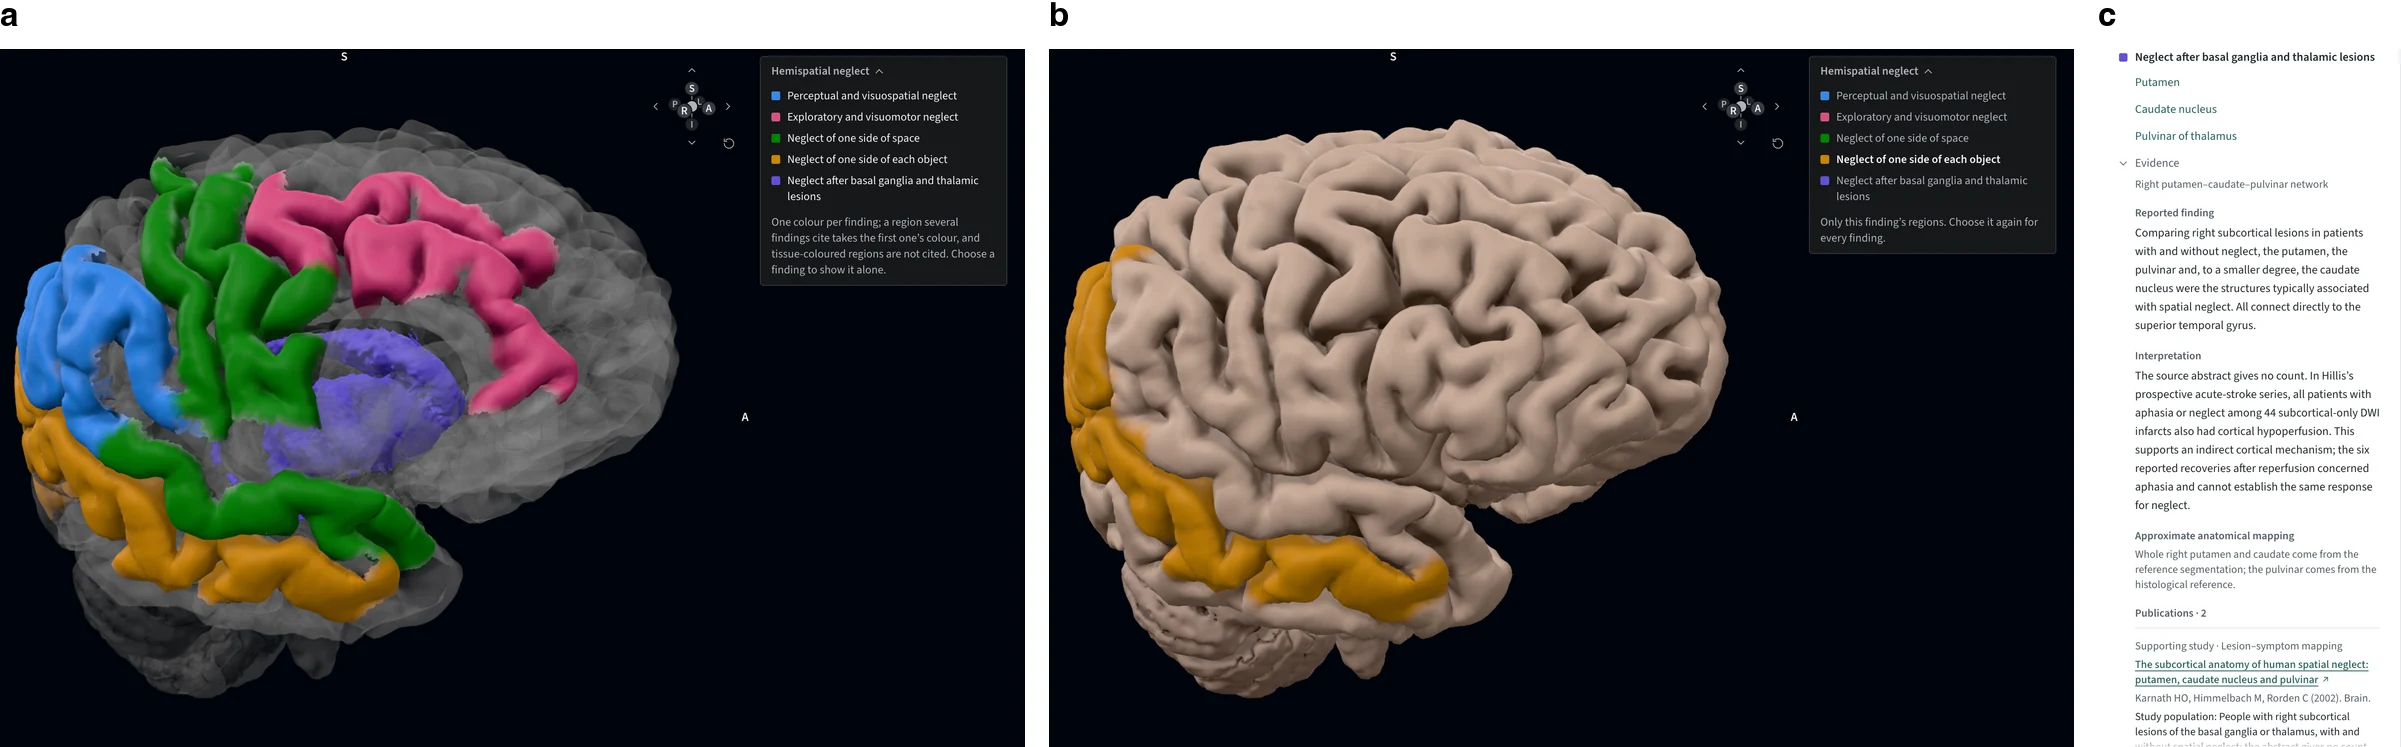
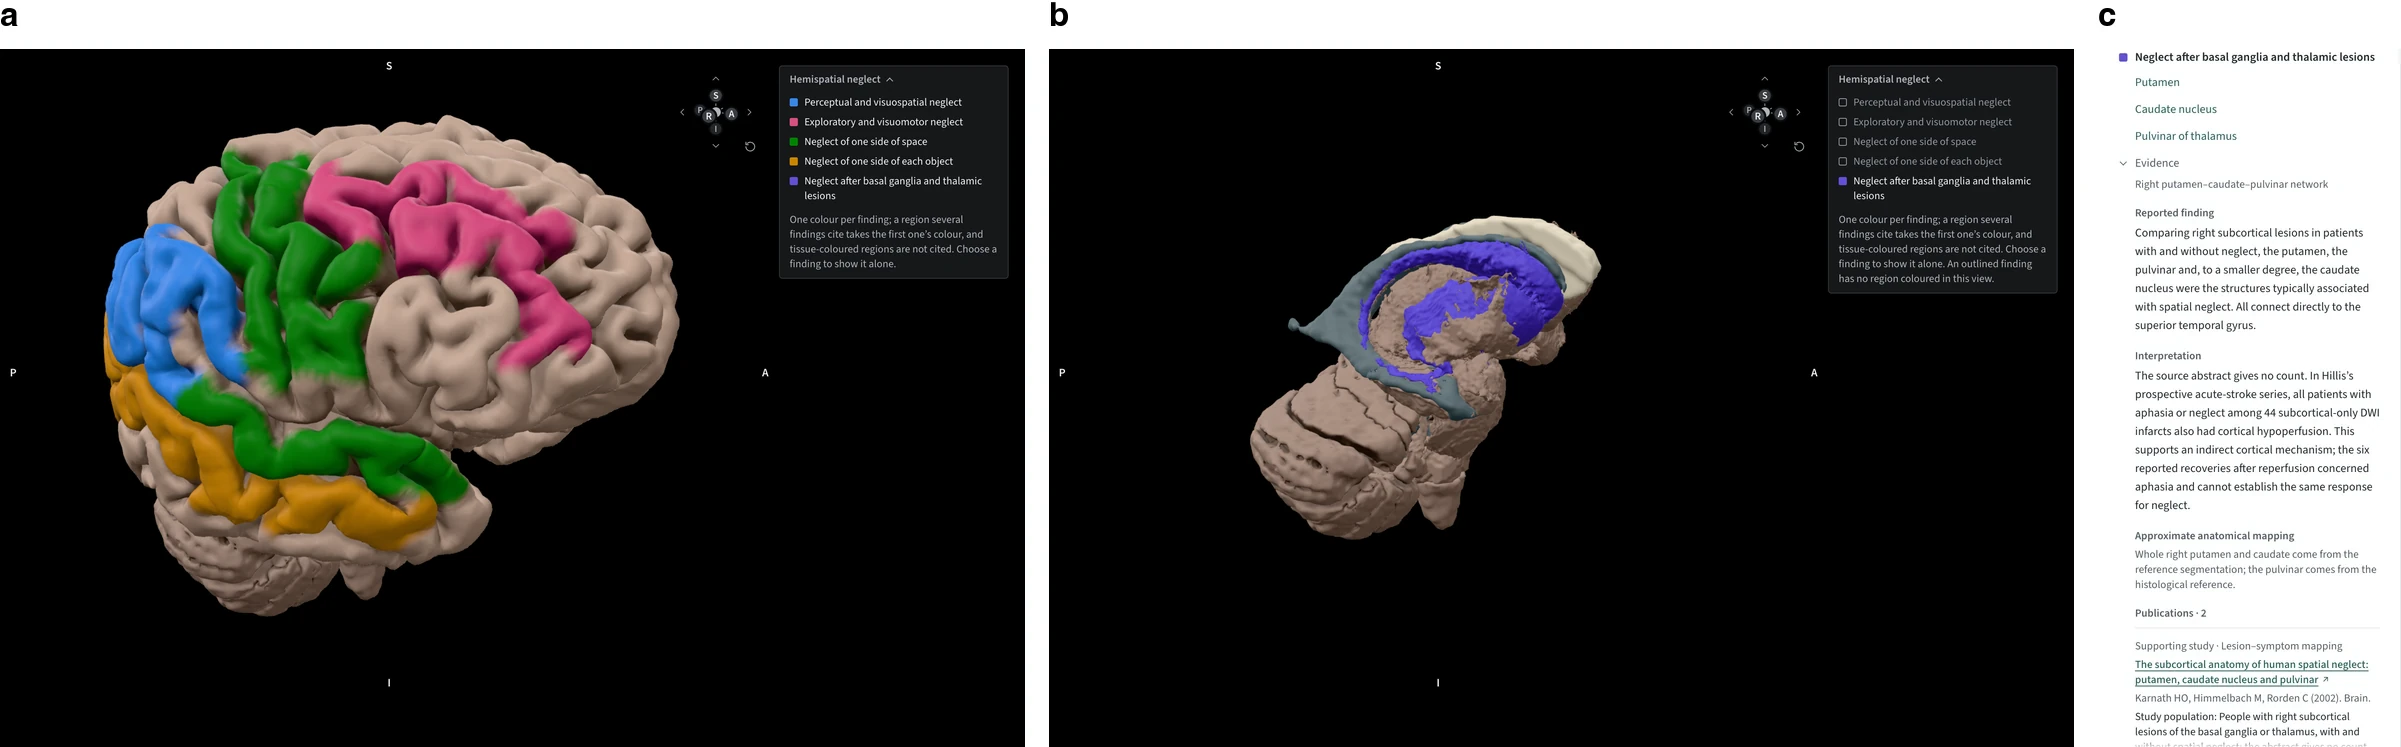
Recapture the docs figures that showed the see-through cortex
Deficits Fig. 1: panel a is hemispatial neglect's five findings on the
opaque cortex as it now opens; panel b, which showed one finding chosen,
now shows the view after "Show 2 deep structures": the cortex hidden, the
putamen and caudate violet, the cortical findings outlined in the key.
Panel c is unchanged.

Functions Fig. 1: panel c (All functions) is recaptured with the cortex
opaque. Panels a and b are unchanged.

Captured from the local viewer at the old panel scale (stage at 2x, sized
down into the existing layout); captions and alt text follow. The docs
build with -W.

diff --git a/docs/features/deficits.md b/docs/features/deficits.md
@@ -3,10 +3,10 @@
 The **Deficits** tab maps 131 acquired adult deficits onto the atlas regions that published patient studies associate with them. Each profile holds one to six findings; each finding cites supporting and qualifying studies, states its limitation and how the study's anatomy became atlas parcels, and is painted in its own colour. The catalogue is a curated selection of 339 PubMed-indexed studies, not a systematic review, and its parcels are atlas labels on one reference brain, not lesion volumes.
 
 ```{figure} figures/deficits-1.webp
-:alt: Three panels. a, a right hemisphere seen from the side and slightly behind, with a see-through grey cortex; gyri are painted blue, magenta, green and amber, and violet deep structures show through; a key at top right lists five findings. b, the same view with an opaque beige cortex and only the angular, middle temporal and middle occipital gyri painted amber. c, the side panel showing the finding "Neglect after basal ganglia and thalamic lesions" with its regions, reported finding, interpretation, mapping note and the first of two publications.
+:alt: Three panels. a, a right hemisphere seen from the side and slightly behind, with an opaque beige cortex; gyri are painted blue, magenta, green and amber; a key at top right lists five findings. b, the same view with the cortex hidden: the caudate and putamen are painted violet among unpainted deep structures, and the key outlines the four cortical findings. c, the side panel showing the finding "Neglect after basal ganglia and thalamic lesions" with its regions, reported finding, interpretation, mapping note and the first of two publications.
 :name: fig-deficits-1
 
-**Hemispatial neglect: five findings, one colour each, and the evidence behind one of them.** **a**, All five findings. The angular and supramarginal gyri are cited by two findings and take the colour of the first (blue). The putamen and caudate (violet) are deep, so the cortex is held see-through and unpainted cortex is drawn grey. **b**, One finding chosen in the key ("Neglect of one side of each object"). The angular gyrus now takes that finding's amber, and with no deep structure painted the cortex is opaque again. **c**, The evidence of the fifth finding: one supporting lesion-mapping study (Karnath et al. 2002) and one qualifying study, with the finding, its limitation and its mapping note. The profile reports 10 of 11 mapped regions coloured, because the pulvinar is a NextBrain nucleus and the teaching set is the internal anatomy drawn. Subject CDMD sub_013; Destrieux cortex and teaching-set structures; right hemisphere; camera as framed on opening.
+**Hemispatial neglect: five findings, one colour each, and the evidence behind one of them.** **a**, All five findings. The angular and supramarginal gyri are cited by two findings and take the colour of the first (blue). The cortex stays opaque, so the putamen and caudate (violet) are out of sight. **b**, After the profile's **Show 2 deep structures**: the cortex is hidden and the internal anatomy framed, the putamen and caudate in violet. The key outlines the other four findings, which have no region coloured in this view. **c**, The evidence of the fifth finding: one supporting lesion-mapping study (Karnath et al. 2002) and one qualifying study, with the finding, its limitation and its mapping note. The profile reports 10 of 11 mapped regions coloured, because the pulvinar is a NextBrain nucleus and the teaching set is the internal anatomy drawn. Subject CDMD sub_013; Destrieux cortex and teaching-set structures; right hemisphere; camera as framed on opening (**a**) and by the button (**b**).
 ```
 
 ## Data

diff --git a/docs/features/functions.md b/docs/features/functions.md
@@ -6,7 +6,7 @@ The **Functions** tab paints where studies of a cognitive function consistently 
 :alt: Left lateral view of a brain with HCP-MMP areas painted in three blues for the language map, beside a list of areas ranked by z, and below a second view with areas painted in eleven function colours.
 :name: fig-functions-1
 
-**A function is a consistency map averaged per area, thresholded at z = 3 and ranked.** **a**, Language (Neurosynth term "language", 1,101 studies) on HCP-MMP areas: 95 areas reach $z \ge 3$, drawn in three bands ($z$ 3–5, 5–10, ≥ 10). Tissue-coloured areas fall below 3. **b**, The profile: the evidence line with the study count, the caveats, the 12 strongest areas with their mean $z$ (44 left 19.7, IFSp left 19.4), and the first lesion check (aphasia, left `G_temporal_middle` 76% coloured). **c**, **All functions**: each area in the colour of its strongest overview function, measured as a share of each function's own cortical maximum. The cortex is translucent because the paint includes deep structures. CDMD (sub_013), left lateral view, teaching-set internal anatomy.
+**A function is a consistency map averaged per area, thresholded at z = 3 and ranked.** **a**, Language (Neurosynth term "language", 1,101 studies) on HCP-MMP areas: 95 areas reach $z \ge 3$, drawn in three bands ($z$ 3–5, 5–10, ≥ 10). Tissue-coloured areas fall below 3. **b**, The profile: the evidence line with the study count, the caveats, the 12 strongest areas with their mean $z$ (44 left 19.7, IFSp left 19.4), and the first lesion check (aphasia, left `G_temporal_middle` 76% coloured). **c**, **All functions**: each area in the colour of its strongest overview function, measured as a share of each function's own cortical maximum. The cortex stays opaque although the paint includes deep structures; the profile's **Show *n* deep structures** shows them. CDMD (sub_013), left lateral view, teaching-set internal anatomy.
 ```
 
 ## Data
